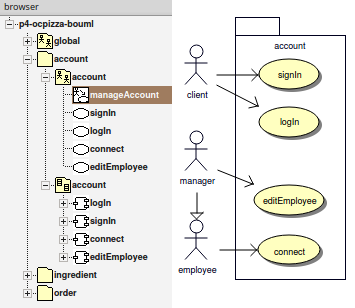
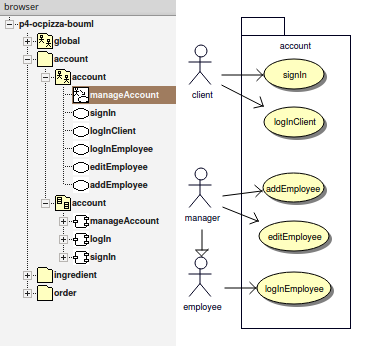
Updates account diagram activity

Changed region(s): [[0.0, 0.0, 0.9606, 0.9935]]

diff --git a/specifications.md b/specifications.md
@@ -72,32 +72,35 @@ Le ~~client~~ a déjà fait une petite prospection et les logiciels existants qu
 ![Package diagram - OC Pizza](https://raw.githubusercontent.com/freezed/ocp4/master/img/0003-uml-global-package_diagram.png)
 
 ---
-### Common activity [CRUD] v1
-![Activity diagram - CRUD](https://raw.githubusercontent.com/freezed/ocp4/master/img/0004-uml-global-use_case-crud.png)
-
-### Common activity [CRUD] v2
-![Activity diagram - CRUD](https://raw.githubusercontent.com/freezed/ocp4/master/img/0004-uml-global-use_case-crud-bis.png)
-
----
 ### Package [account]
 _Use case diagram_:
 
 ![Use case - account](https://raw.githubusercontent.com/freezed/ocp4/master/img/0110-uml-account-use_case_diagram.png)
 
-#### Activity [logIn] : Connection compte client
+#### Activity [signIn] : Création d'un client
 _Activity diagram_:
 
-![Activity diagram - logIn](https://raw.githubusercontent.com/freezed/ocp4/master/img/0121-uml-account-diagram_activity-log_in.png)
+![Activity diagram - signIn](https://raw.githubusercontent.com/freezed/ocp4/master/img/0123-uml-account-diagram_activity-sign_in.png)
 
-#### Activity [siqnIn] : Création d'un compte client
+#### Activity [logInClient] : Connection d'un client
 _Activity diagram_:
 
-![Activity diagram - signIn](https://raw.githubusercontent.com/freezed/ocp4/master/img/0122-uml-account-diagram_activity-sign_in.png)
+![Activity diagram - logInClient](https://raw.githubusercontent.com/freezed/ocp4/master/img/0122-uml-account-diagram_activity-log_in_client.png)
 
-#### Activity [connect] : Connection compte client
+#### Activity [addEmployee] : Création d'un salarié
 _Activity diagram_:
 
-![Activity diagram - connect](https://raw.githubusercontent.com/freezed/ocp4/master/img/0123-uml-account-diagram_activity-connect.png)
+![Activity diagram - addEmployee](https://raw.githubusercontent.com/freezed/ocp4/master/img/)
+
+#### Activity [editEmployee] : Modification d'un salarié
+_Activity diagram_:
+
+![Activity diagram - logInEmployee](https://raw.githubusercontent.com/freezed/ocp4/master/img/0125-uml-account-diagram_activity-add_employee.png)
+
+#### Activity [logInEmployee] : Connection d'un salarié
+_Activity diagram_:
+
+![Activity diagram - editEmployee](https://raw.githubusercontent.com/freezed/ocp4/master/img/0124-uml-account-diagram_activity-edit_employee.png)
 
 ---
 ### Package [order]
